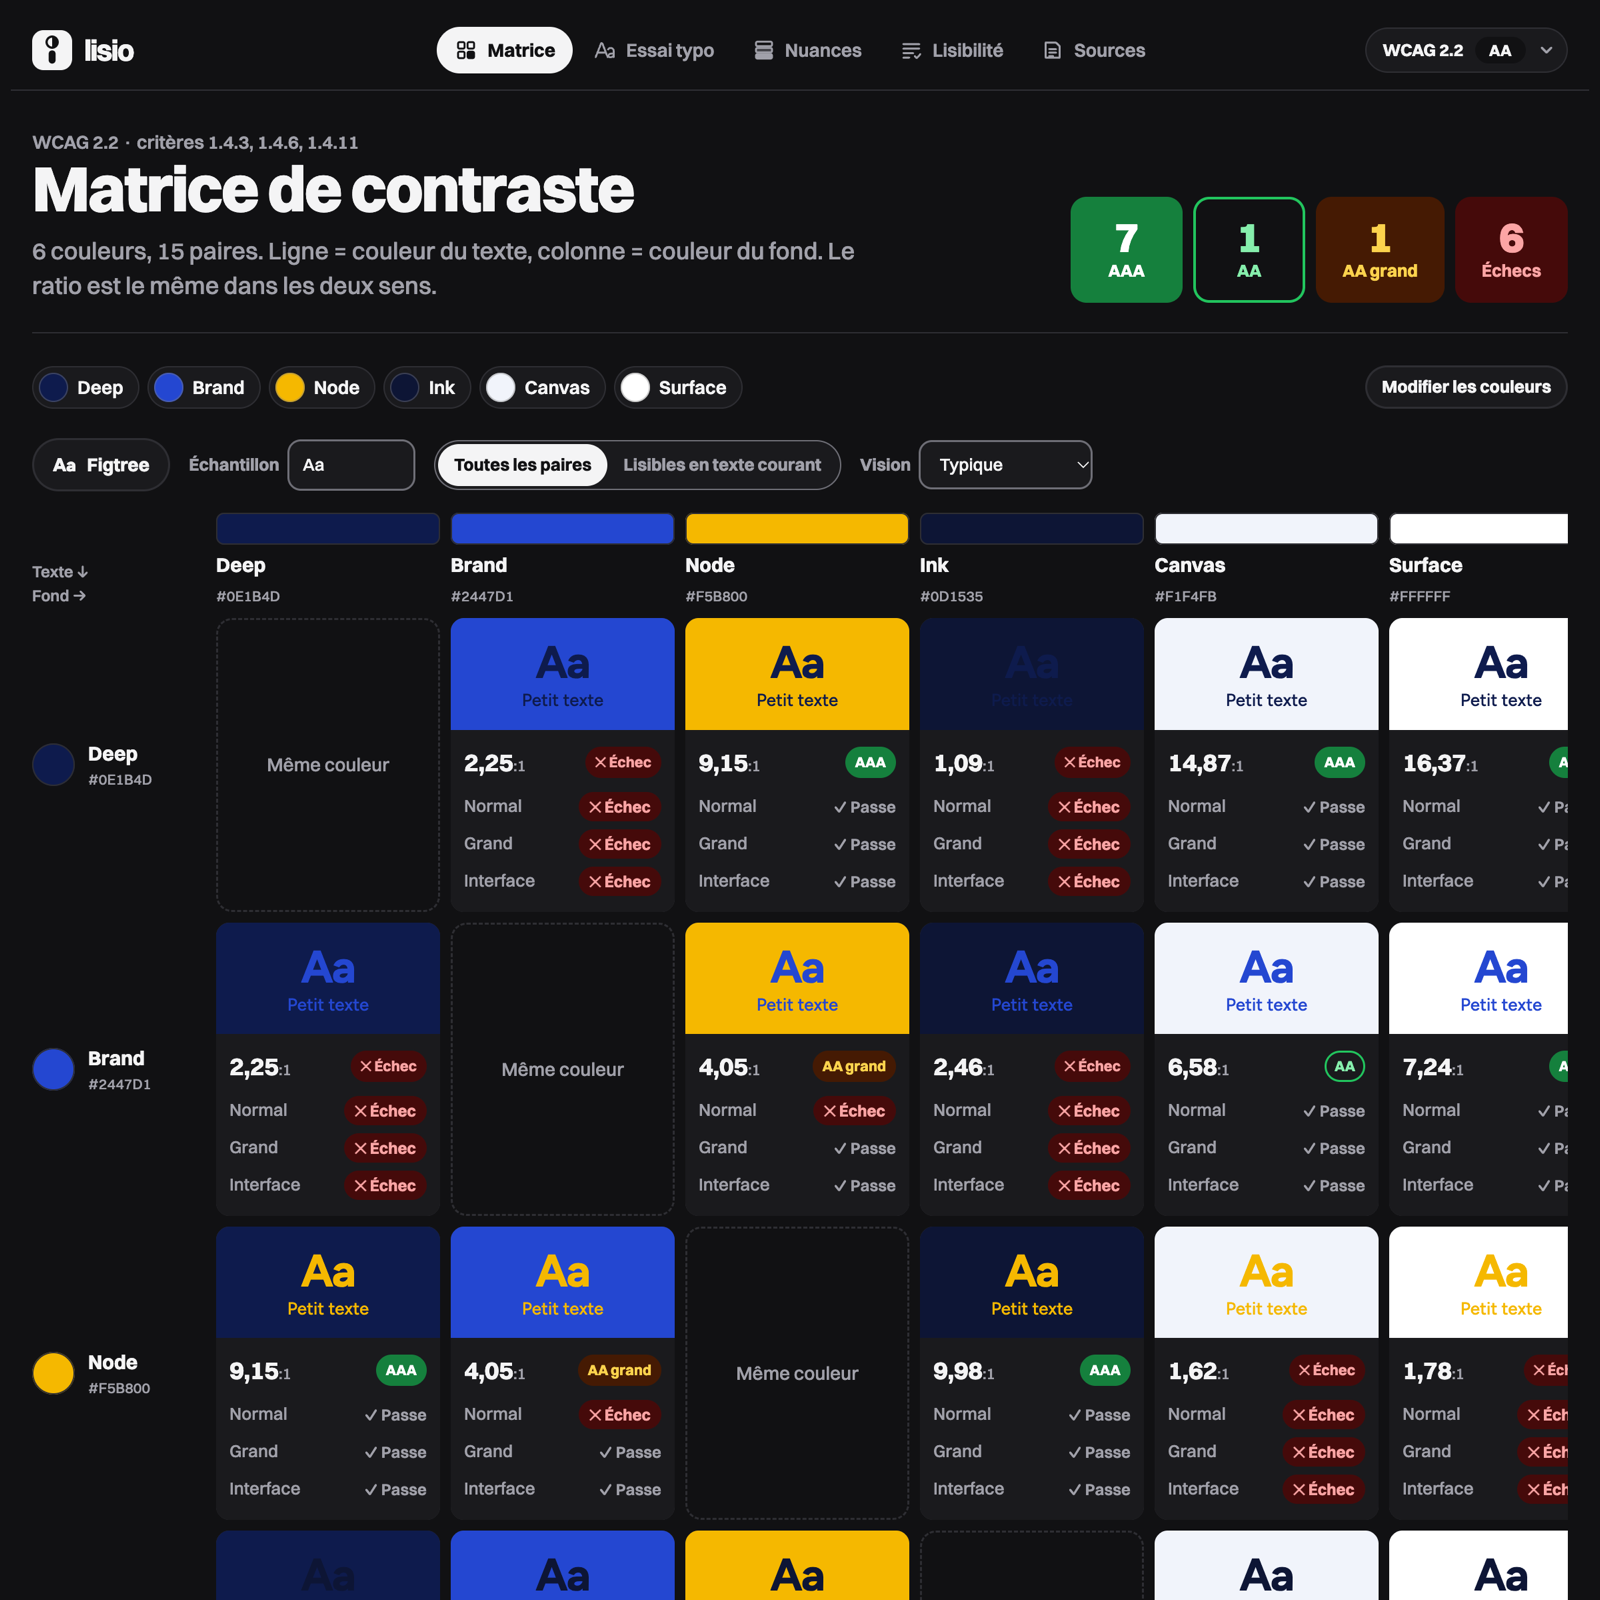
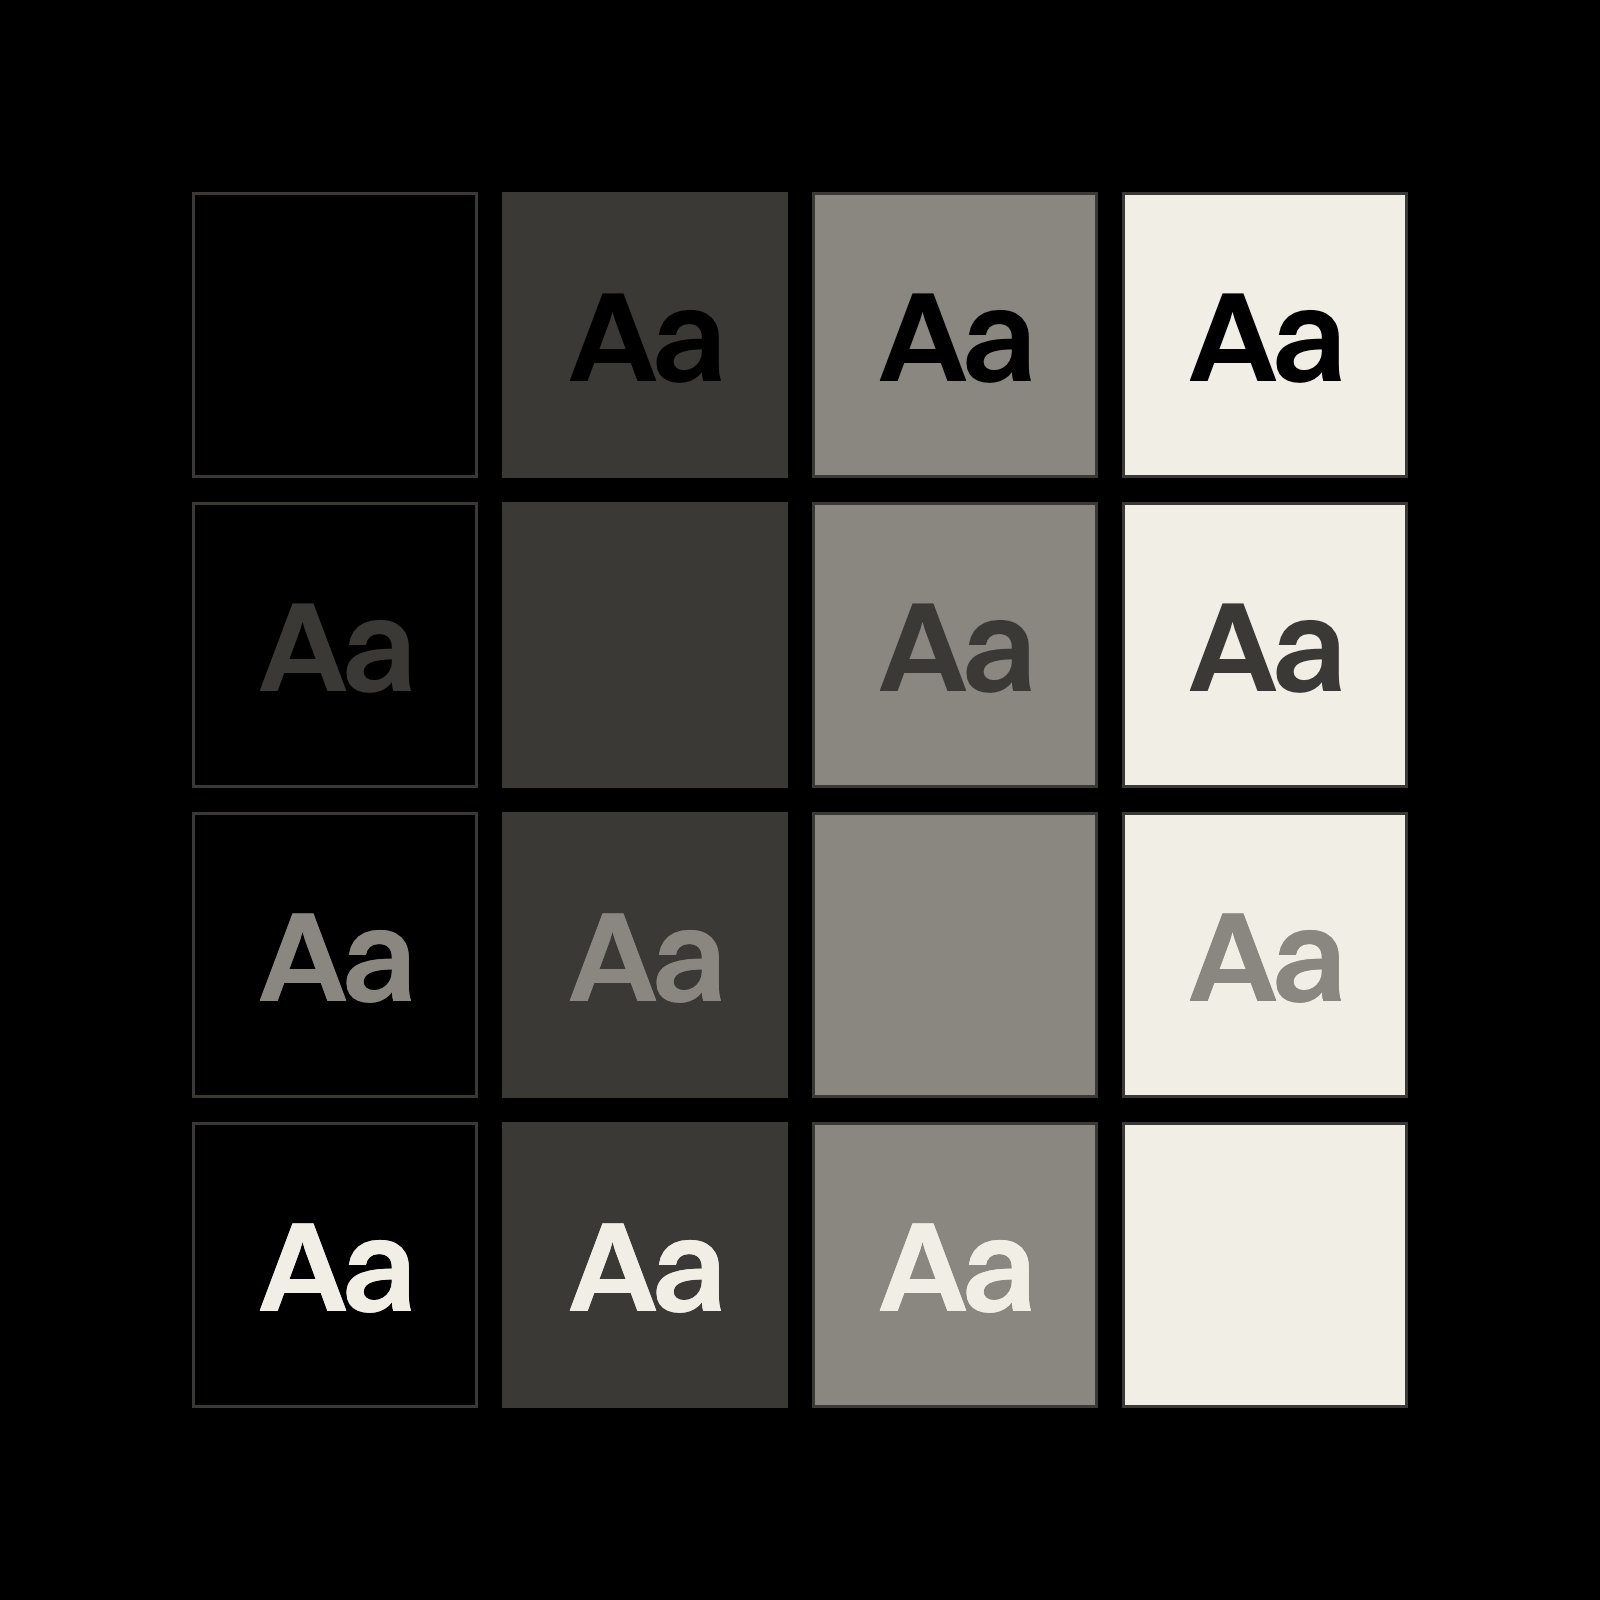
Essai : le Lab en deux colonnes, nouvelle couverture pour Lisio

diff --git a/src/styles/swiss.css b/src/styles/swiss.css
@@ -2774,3 +2774,17 @@
 .swiss.menu-open [data-swiss-header] .header-pill {
   border-bottom-color: transparent;
 }
+
+/* Essai : le Lab en deux colonnes dès la tablette, au même pas que la
+   grille des projets. */
+.swiss .lab-grille {
+  display: grid;
+  grid-template-columns: minmax(0, 1fr);
+  column-gap: 20px;
+}
+
+@media (min-width: 768px) {
+  .swiss .lab-grille {
+    grid-template-columns: repeat(2, minmax(0, 1fr));
+  }
+}
